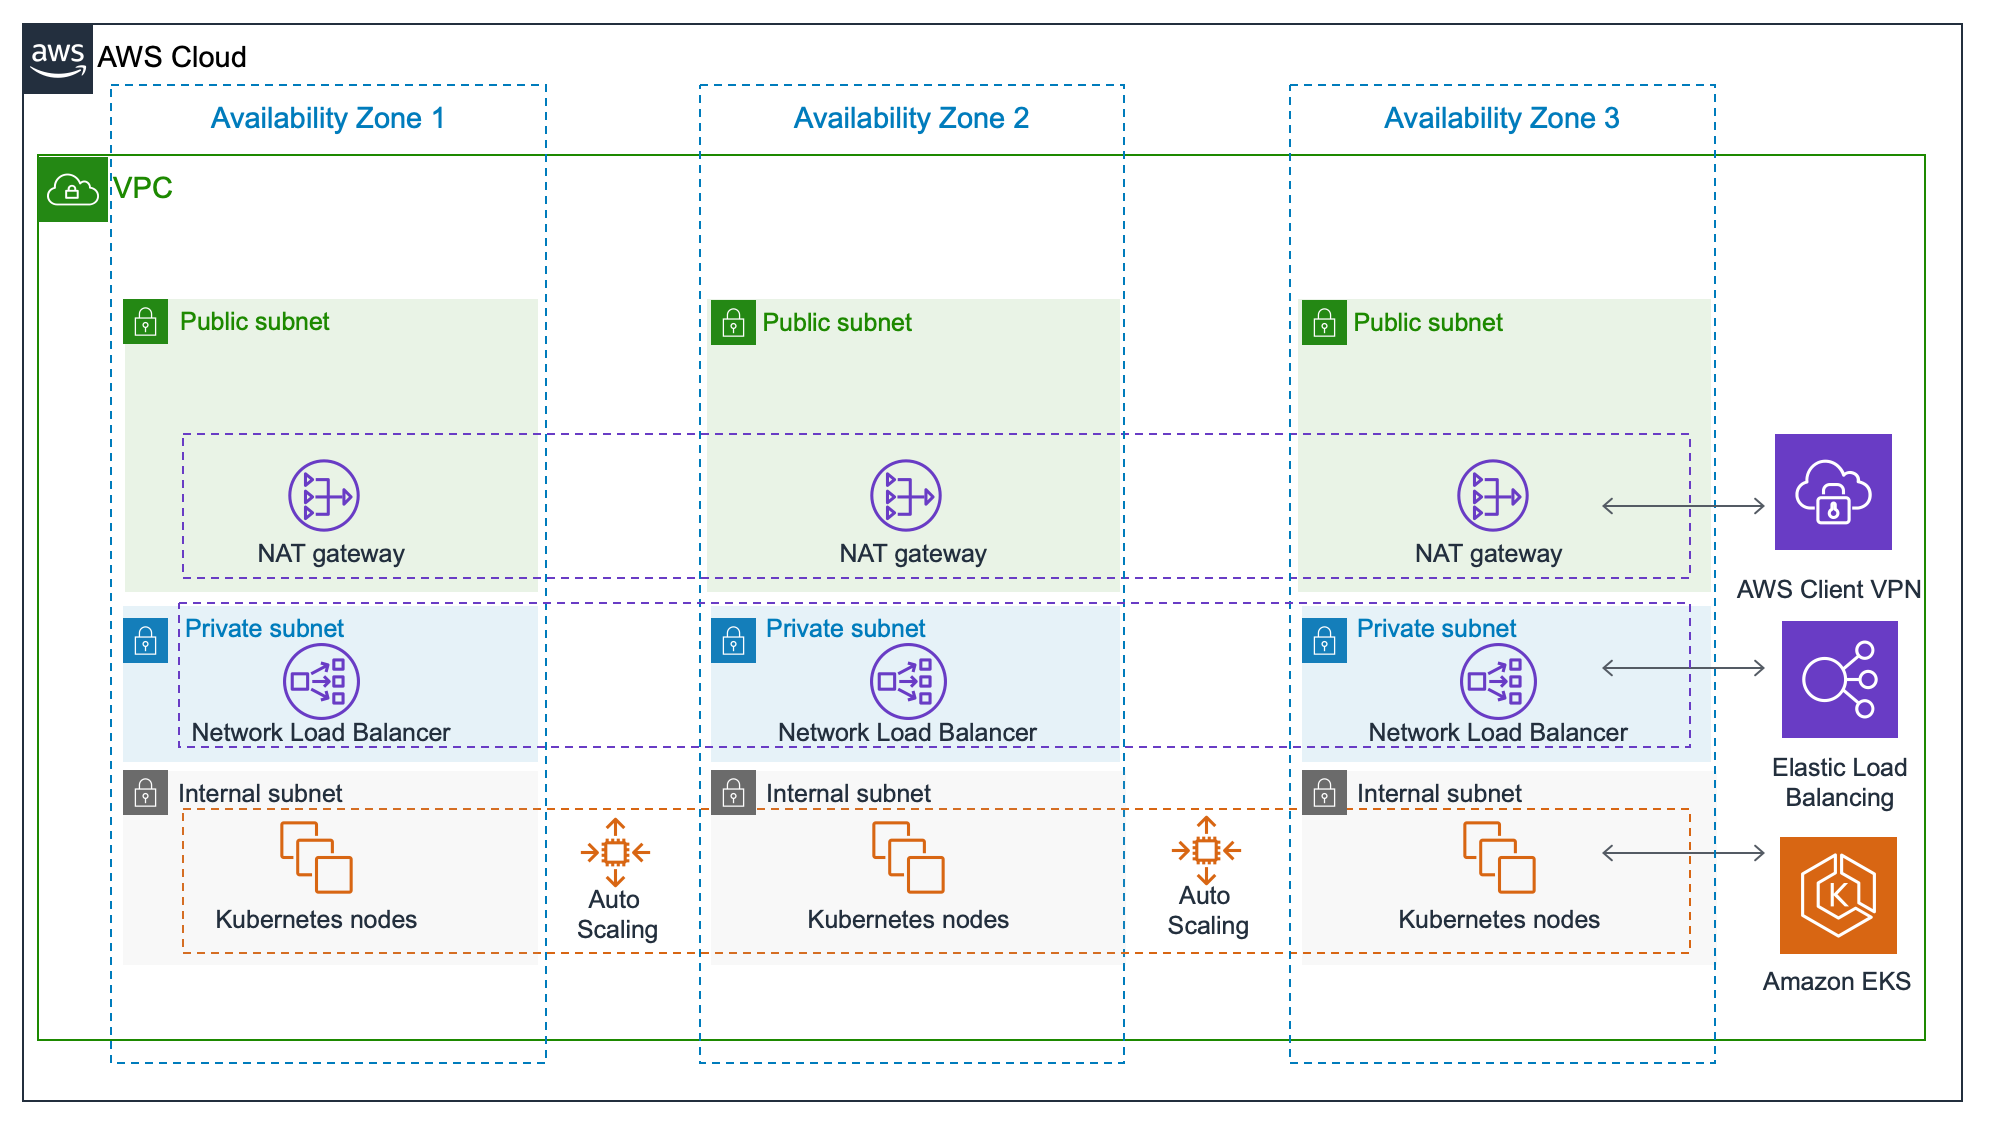
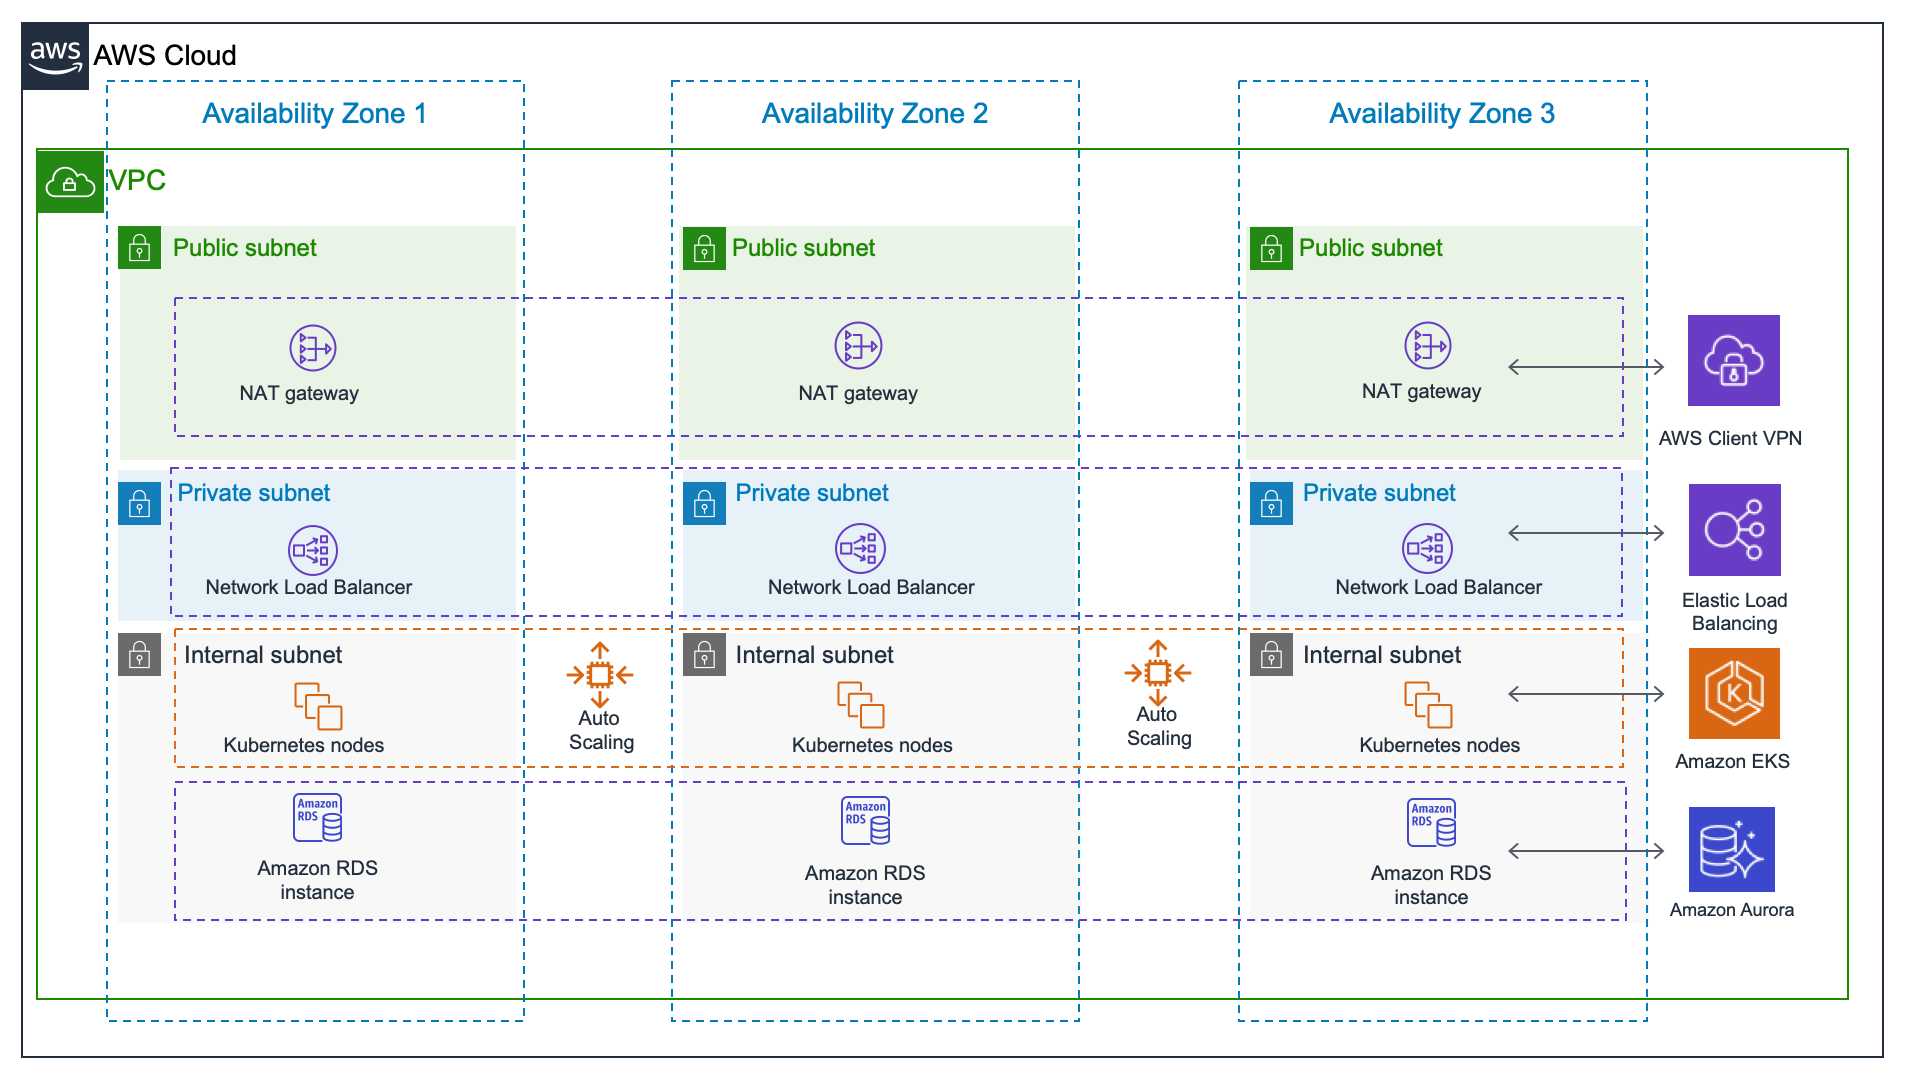
Update Lemonade and Credijusto case studies (#121)
* Update lemonade case study

* Update credijusto case studies

* Update image

diff --git a/themes/default/content/case-studies/lemonade.md b/themes/default/content/case-studies/lemonade.md
@@ -63,24 +63,32 @@ more complete solution to support both existing and new services.
 
 Lemonade chose Pulumi for its ability to deploy infrastructure with reusable libraries
 that could be shared between developers, using their preferred language and cloud. Pulumi
-also empowers its users to create and deploy serverless components like AWS Lambda and AWS
-EKS --- features Lemonade needed to scale in order to support its growing customer base.
+also empowers its users to create and deploy serverless components like AWS Lambda and Amazon
+Elastic Kubernetes Service (EKS) --- features Lemonade needed to scale in order to support its
+growing customer base.
 
 Pulumi enabled Lemonade to centralize its processes, managing all AWS components and
 automating infrastructure for every environment. Embedded business logic helped ensure
 that resources get appropriately sized for each environment --- keeping costs low and
 allowing maximum reuse of infrastructure code.
 
-> “Pulumi’s Automation API helps us to build on existing best practices and further automate
-> our deployment process -- eliminating manual tasks and exception handling.”
+> “With Pulumi, we can utilize our infrastructure much better because we have the ability
+> to embed business logic. We’re not limited to one-size-fits-all configurations, but
+> can actually implement environment-specific customizations for our infrastructure.”
 >
 > --- Igor Shapiro, Principal Engineer at Lemonade
 
+Beyond managing serverless capabilities, the Lemonade team was able to take advantage of
+the rich managed database features of the [Amazon Relational Database Service](https://aws.amazon.com/rds/)
+(Amazon RDS). With RDS and Pulumi, the team was able to provision and update databases like
+any other service resource using Pulumi. The team was able to get up and running quickly using
+Amazon Aurora -- enabling scale while retaining compatibility with MySQL and PostgreSQL.
+
 In addition to providing the infrastructure features that Lemonade was looking for,
-Pulumi's platform improved Lemonade's CI/CD process via out-of-the-box integration with
-Jenkins. By empowering their service owners with the ability to self-provision and deploy
-resources alongside their application code, Pulumi helped Lemonade engineers be more agile
-when developing, testing, deploying, and scaling new applications and services.
+Pulumi's platform improved Lemonade's CI/CD process via out-of-the-box integrations with
+Jenkins and Datadog. By empowering their service owners with the ability to self-provision
+and deploy resources alongside their application code, Pulumi helped Lemonade engineers be
+more agile when developing, testing, deploying, monitoring, and scaling new applications and services.
 
 ## Results {#results}
 
@@ -99,7 +107,10 @@ CloudTrail, and automated credential rotation for increased security.
 > that developers can leverage to provision new resources and enforce organizational
 > policies for logging, permissions, resource tagging, and security. This empowered our
 > developer teams to self-provision resources and ship new capabilities faster without
-> having to wait for the infrastructure team to deploy new resources on their behalf."
+> having to wait for the infrastructure team to deploy new resources on their behalf.
+> At the same time, we’re able to provision/update databases managed by Amazon RDS with
+> protection from deletion so infrastructure changes can happen on the fly - without risk
+> to our production data."
 >
 > --- Igor Shapiro, Principal Engineer at Lemonade
 
@@ -107,6 +118,17 @@ Lemonade's infrastructure team was able to simplify tasks like automatically com
 CIDR blocks, correctly connecting their networks to the VPC transit gateway and handling
 production traffic differently from other environments --- something that simply can't be
 done with Terraform.
+
+Finally, the team was able to leverage Pulumi’s new Automation API to further simplify deployments.
+The Automation API allowed Lemonade to embed the Pulumi engine directly within their application
+code, enabling them to programmatically run deployments at run-time. For example: customizing runners
+for multi-step provisioning, automating recovery for well-known errors like fixing state for interrupted
+jobs and managing approvals for sensitive operations like deleting old resources.
+
+> “Pulumi’s Automation API helps us to build on existing best practices and further automate
+> our deployment process -- eliminating manual tasks and exception handling.”
+>
+> --- Igor Shapiro, Principal Engineer at Lemonade
 
 Using Pulumi to automatically manage its infrastructure has allowed Lemonade’s leadership
 to rest easy about the efficiency and security of its infrastructure and ensure that

diff --git a/themes/default/content/case-studies/credijusto.md b/themes/default/content/case-studies/credijusto.md
@@ -14,18 +14,18 @@ customer_url: https://credijusto.com
 exec_summary: |
     Founded in 2015, [Credijusto](https://credijusto.com/) provides asset-backed loans and
     equipment leases to small and medium-sized enterprises (SMEs). With approximately 300
-    employees, it has launched several new financial products at better rates, faster
-    delivery, and peerless customer experience when compared to traditional lenders. Its
-    operations are supported by an AWS-based hybrid cloud architecture. Pulumi enabled the
-    company to migrate quickly and easily from Hashicorp Terraform and other legacy
-    configuration tools, which limited their teams' ability to scale. Using Pulumi has
-    helped Credijusto to migrate from Amazon ECS to Amazon EKS, and to make use of [AWS
-    Lambda](https://aws.amazon.com/lambda/) using familiar programming languages. This enables
-    the company to modernize its infrastructure quickly and cleanly, ensuring reliability
-    and accelerating recovery times when needed. Beyond infrastructure configuration and
-    deployment, Credijusto is going one step further in using the new Pulumi CrossGuard
-    "Policy as Code" capabilities to ensure that engineering teams stand up new services
-    that comply with company standards.
+    employees, it has launched several new financial products at better rates, faster delivery,
+    and peerless customer experience when compared to traditional lenders. Its operations
+    are supported by an AWS-based hybrid cloud architecture. Pulumi enabled the company
+    to migrate quickly and easily from Hashicorp Terraform and other legacy configuration
+    tools, which limited their teams’ ability to scale. Using Pulumi has helped Credijusto
+    to migrate from Amazon ECS to Amazon EKS, and to make use of [AWS Lambda](https://aws.amazon.com/lambda/)
+    and [Amazon RDS](https://aws.amazon.com/rds/) using real programming languages. This
+    enables the company to modernize its infrastructure quickly and cleanly, ensuring
+    reliability and accelerating recovery times when needed. Beyond infrastructure configuration
+    and deployment, Credijusto is going one step further in using the new Pulumi CrossGuard
+    ‘Policy as Code’ capabilities to ensure that engineering teams stand up new services that
+    comply with company standards.
 
 
 sections:
@@ -104,6 +104,19 @@ tagging, naming, and metadata for new resources.
 Pulumi made network configurations extremely simple and easy to replicate across
 environments at Credijusto. Below is an example of how Credijusto used Pulumi to configure
 multiple subnets per availability zone and environment.
+
+In addition to using EKS with Cluster Autoscaler to dynamically scale their Kubernetes
+clusters, the Credijusto team also took advantage of the
+[Amazon Relational Database Service](https://aws.amazon.com/rds/) (RDS)
+and [Amazon Aurora](https://aws.amazon.com/rds/aurora/) to enable the database for
+each application to scale with demand.
+
+> "Our database setup relies on a dedicated Amazon Aurora cluster for each product. Everything
+> is configured by Pulumi, by a custom resource that we built to create and manage all related
+> resources (credentials, Option Groups, Parameter Groups, Subnets, Security Groups, Policies, etc.).
+> This ensures a standard configuration across all of our databases."
+>
+> &mdash; Fernando Carlietti, Lead DevOps Engineer, Credijusto.
 
 <img class="block mx-auto md:max-w-4xl my-8" src="/images/case-studies/credijusto-architecture.png" alt="Credijusto architecture">
 
